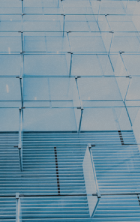
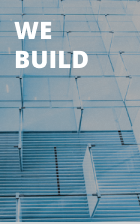
test

diff --git a/index.html b/index.html
@@ -34,10 +34,11 @@
     <div class="ourstory" id="about">
         <h2>OUR STORY</h2>
         <hr>
+        <div class="ourstory_content">
         <div class="text">
             <article>
                 Founded in 2011 by John Mathew Smith,<br>
-                <span id="name">Konstruct</span> has become the <br>
+                <span>Konstruct</span> has become the <br>
                 number one construction management<br>
                 firm
             </article>
@@ -48,13 +49,15 @@
                 adipiscing elit, sed diam nonummy nibh euismod tincidunt ut<br>
                 laoreet dolore magna aliquam erat.
             </p>
-        </div>
+        </div>  
         <div class="img">
-            <h3>WE PLAN</h3>
-            <h3>WE MANAGE</h3>
-            <h3>WE BUILD</h3>
+            <img src="img/plan.png" alt="we plan" height="225">
+            <img src="img/manage.png" alt="we manage" height="225">
+            <img src="img/deliver.png" alt="we build" height="225" style="padding:0px;">
+        </div>
         </div>
     </div>
+</div>
 </body>
 
 </html>

diff --git a/style.css b/style.css
@@ -92,7 +92,6 @@ nav a:hover{
 }
 .ourstory{
     background-color: white;
-    padding-bottom: 400px;
 }
 .ourstory h2{
     text-align: center;
@@ -113,4 +112,43 @@ nav a:hover{
     border: none;
     color:#00A4E5;
     background-color: #00A4E5;
+    margin-bottom: 80px;
+}
+.ourstory_content{
+    display: flex;
+    justify-content: space-around;
+}
+.text{
+    display: flex;
+    flex-direction: column;
+}
+.text article{
+    font-family: "Open Sans", sans-serif;
+    font-style: normal;
+    font-weight: bold;
+    font-size: 20px;
+    line-height: 27px;
+    letter-spacing: 0.1875px;
+    color: #48555B;
+}
+.text span{
+    color:#33B6EB;
+}
+.text p{
+    font-family:"Open Sans",sans-serif;
+    font-style: normal;
+    font-weight: normal;
+    font-size: 13px;
+    line-height: 23px;
+    display: flex;
+    align-items: center;
+    letter-spacing: 0.1875px;
+    color: #48555B;
+}
+.img{
+    display: flex;
+    flex-direction: row;
+}
+.img img{
+    padding-right: 20px;
 }
